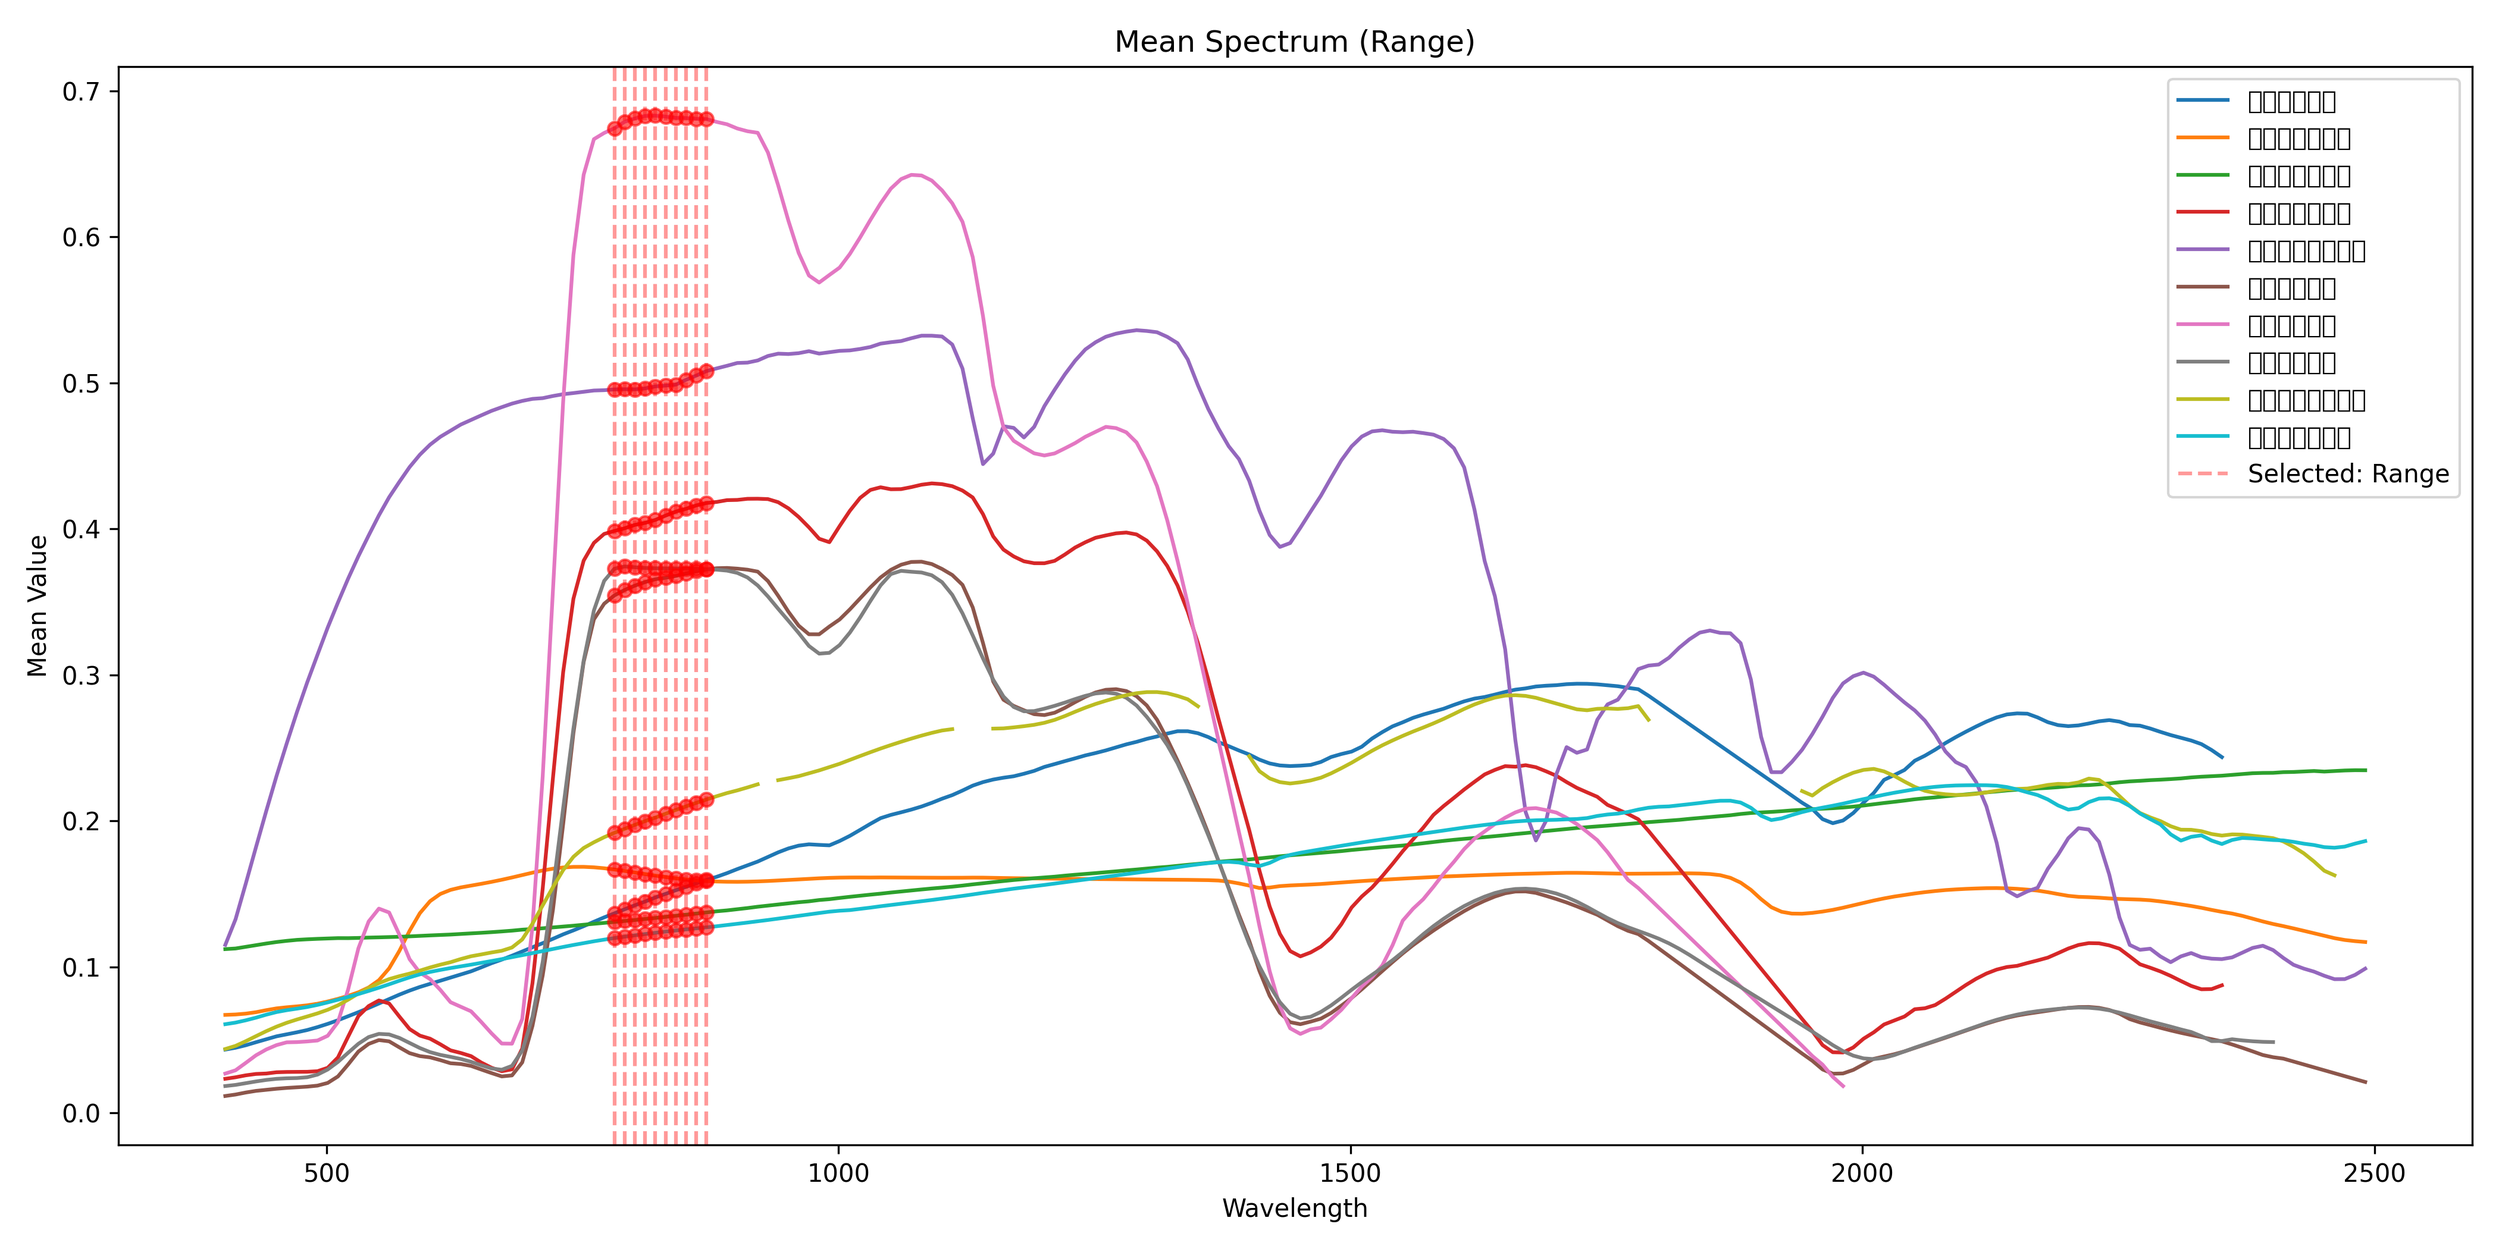
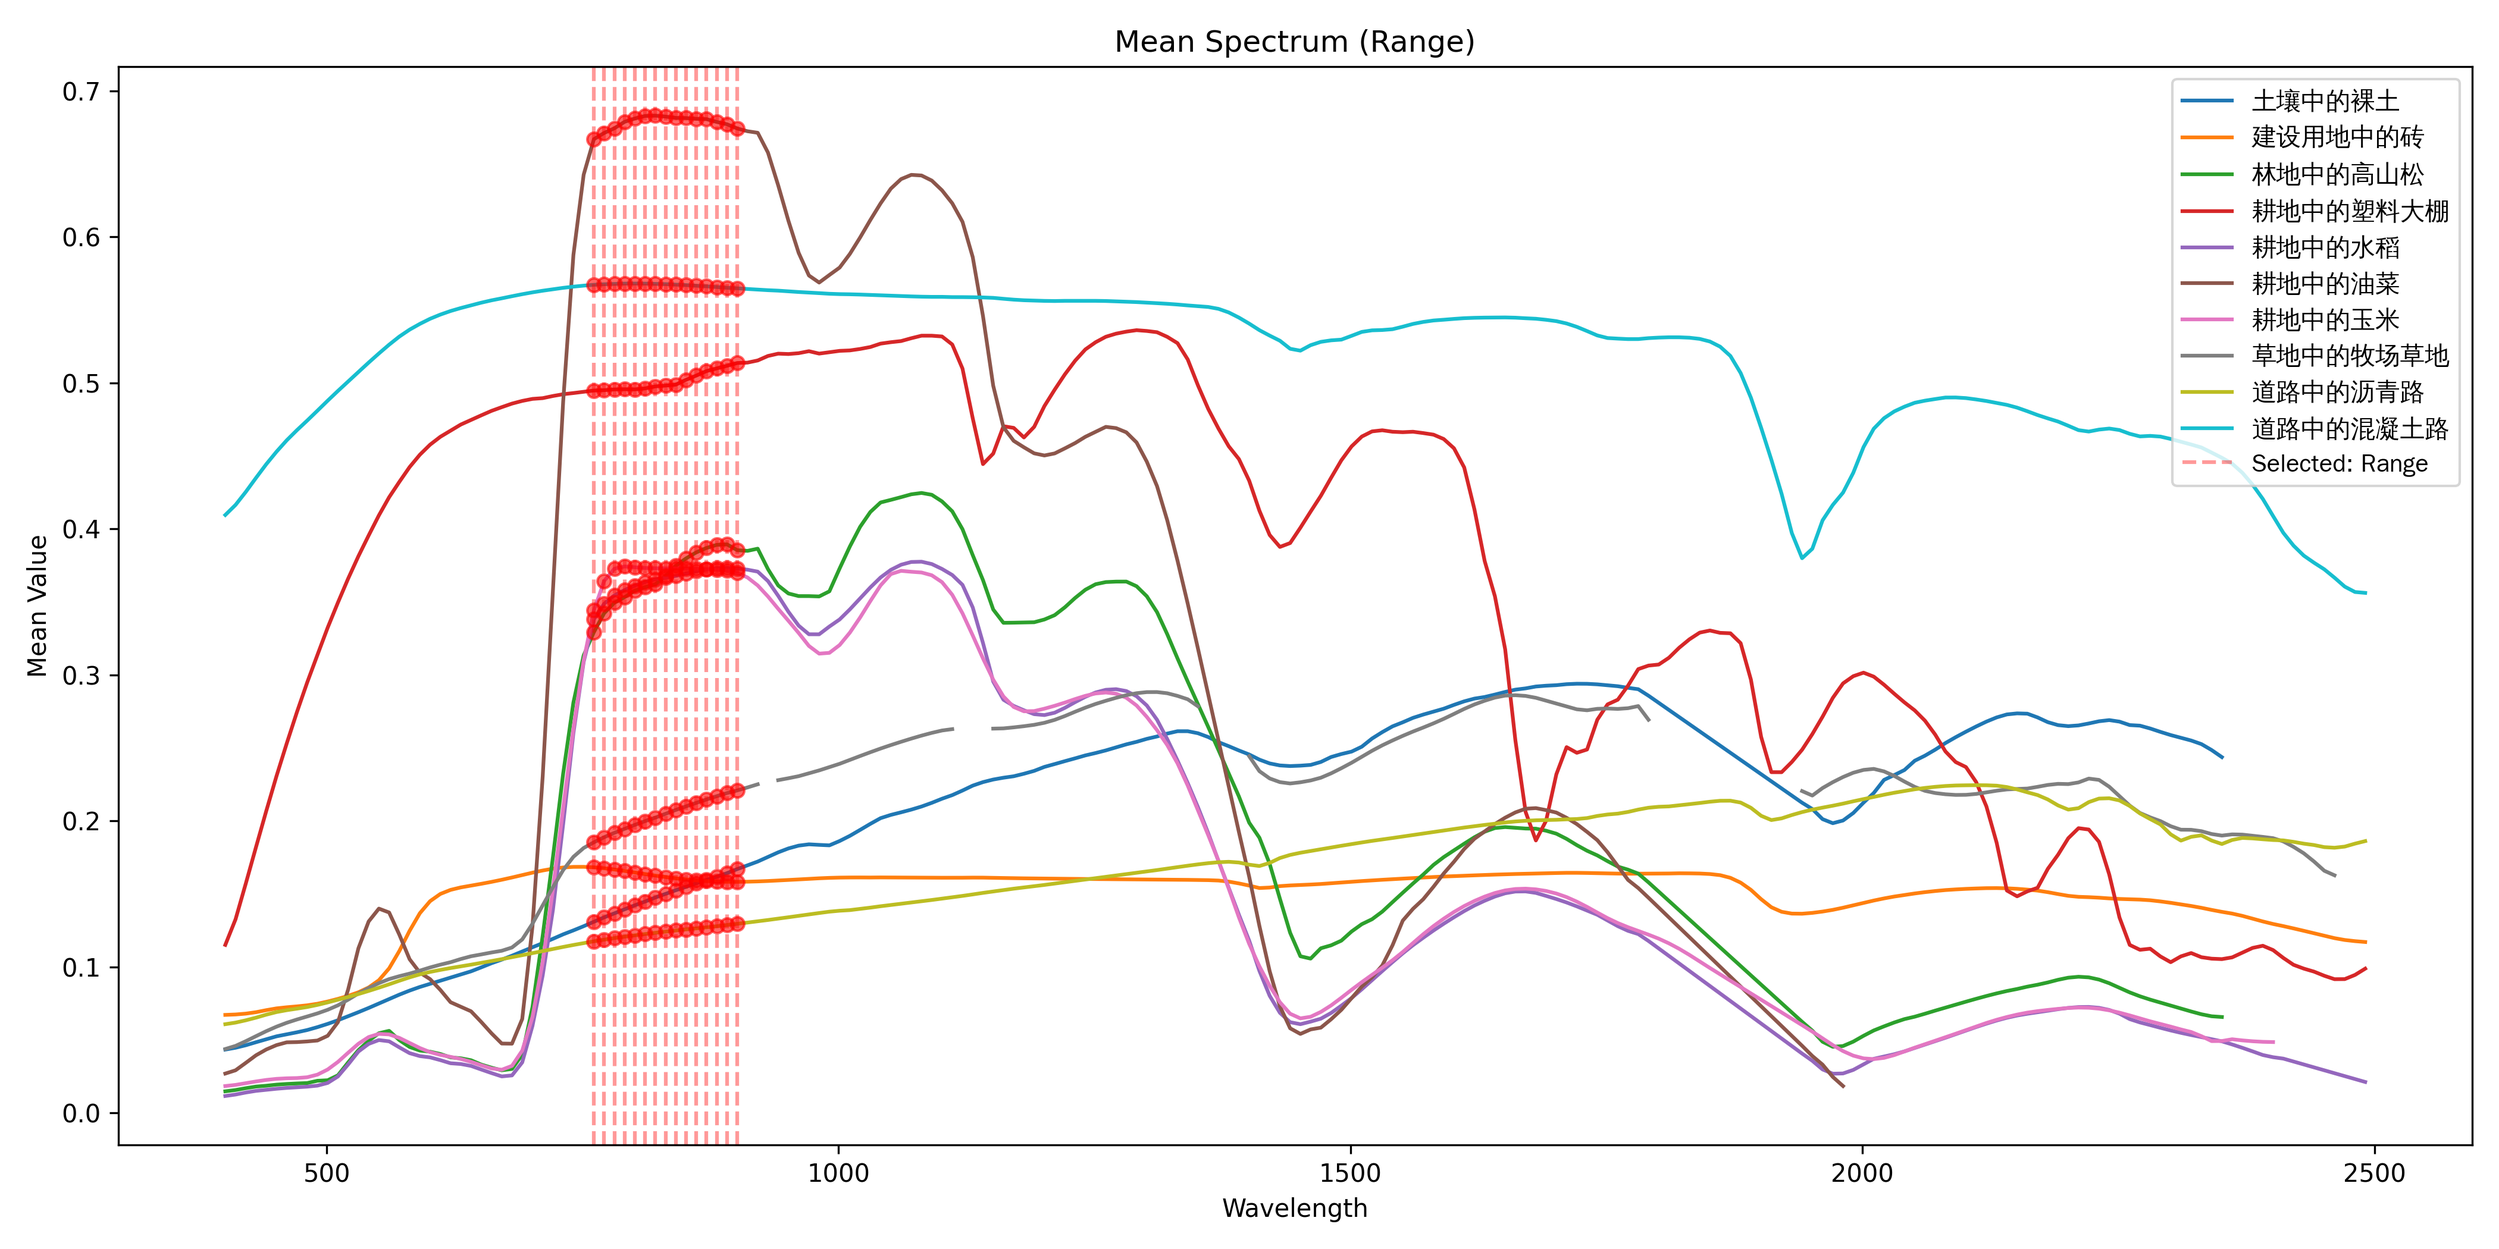
spectral lib based band selection update

diff --git a/Jobs/SpectraLib_band_selection/selector/combined_select.py b/Jobs/SpectraLib_band_selection/selector/combined_select.py
@@ -1,6 +1,6 @@
 import numpy as np
 from scipy.spatial.distance import pdist
-import itertools
+
 
 def group_discriminability(X, y):
     """给定样本X（n, k），y，返回组间中心均值距离/组内方差之比"""
@@ -28,39 +28,155 @@ def group_discriminability(X, y):
     intra_var_mean = (intra_var / count) if count > 0 else 1e-8  # 防0
     return inter_dist / (intra_var_mean**0.5 + 1e-8)
 
-def greedy_band_combination(X, y, band_pool=None, n_select=7):
+
+def greedy_band_selection(
+        X, y,
+        band_pool=None,
+        n_select=7,
+        n_trials=30,
+        disturb_prob=0.3, # 每轮有概率随机替换掉一个已选band
+        random_state=None
+    ):
     """
-    贪心递进法：每次增加1个band，组合区分力最大化
-    X: (n, b) 原始数据
-    y: (n,) 标签
-    band_pool: 候选波段索引（如先用单band方法筛，建议>n_select即可）
-    n_select: 想选多少个波段组成组合
-    return: 最佳组合的band索引列表、最终组合区分力
+    改进：每轮贪心基础上，带入一定概率的随机扰动（扰动后再局部贪心探索），多轮重复，保留最佳
+    - n_trials: 总共运行多少轮
+    - disturb_prob: 每轮扰动的概率（扰动已选波段，防止陷入局部最优）
+    - random_state: 控制随机性
     """
+    rng = np.random.default_rng(random_state)
     if band_pool is None:
         band_pool = np.arange(X.shape[1])
-    else:
-        band_pool = np.array(band_pool)
-    
-    selected = []
-    for i in range(n_select):
-        best_band = None
-        best_score = -np.inf
-        for band in band_pool:
-            if band in selected:
-                continue
-            cand = selected + [band]
+    band_pool = np.array(band_pool)
+    best_combo = None
+    best_score = -np.inf
+
+    for trial in range(n_trials):
+        selected = []
+        local_band_pool = band_pool.copy()
+
+        for i in range(n_select):
+            # 有概率进行扰动：随便pick一个未被选的band
+            if rng.random() < disturb_prob and len(local_band_pool) > len(selected):
+                # 从未被选的band中随机pick一个
+                choices = [b for b in local_band_pool if b not in selected]
+                best_band = rng.choice(choices)
+                cand = selected + [best_band]
+            else:
+                # 常规贪心
+                best_band = None
+                best_band_score = -np.inf
+                for band in local_band_pool:
+                    if band in selected:
+                        continue
+                    cand = selected + [band]
+                    X_sub = X[:, cand]
+                    mask = ~np.any(np.isnan(X_sub), axis=1)
+                    if np.sum(mask) < 2 or len(np.unique(y[mask])) < 2:
+                        continue
+                    score = group_discriminability(X_sub[mask], y[mask])
+                    if score > best_band_score:
+                        best_band_score = score
+                        best_band = band
+                if best_band is None:
+                    break
+                cand = selected + [best_band]
+
             X_sub = X[:, cand]
-            # 剔除有nan的样本，保证组合特征不nan
             mask = ~np.any(np.isnan(X_sub), axis=1)
             if np.sum(mask) < 2 or len(np.unique(y[mask])) < 2:
                 continue
-            score = group_discriminability(X_sub[mask], y[mask])
-            if score > best_score:
-                best_score = score
-                best_band = band
-        if best_band is not None:
             selected.append(best_band)
-        else:
-            break  # 没法再加了
-    return selected, best_score
+
+        # 组合完成后，评估
+        if len(selected) < n_select: continue
+        X_sub = X[:, selected]
+        mask = ~np.any(np.isnan(X_sub), axis=1)
+        score = group_discriminability(X_sub[mask], y[mask])
+        if score > best_score:
+            best_score = score
+            best_combo = selected.copy()
+    return best_combo, best_score
+
+
+def sffs_band_selection(
+        X, y,
+        band_pool=None,
+        n_select=7,
+        score_func=None,
+        n_trials=20,
+        disturb_prob=0.2,
+        random_state=None
+    ):
+    """
+    随机浮动 SFFS：每次迭代有概率踢掉/增添一个随机band，在普通sffs基础上增加扰动和多轮尝试
+    """
+    rng = np.random.default_rng(random_state)
+    if score_func is None:
+        score_func = group_discriminability
+    if band_pool is None:
+        band_pool = np.arange(X.shape[1])
+    band_pool = np.array(band_pool)
+
+    best_score = -np.inf
+    best_combo = None
+    for trial in range(n_trials):
+        selected = []
+        local_band_pool = band_pool.copy()
+
+        while len(selected) < n_select:
+            # 有概率扰动：加一个随机band
+            do_disturb = (rng.random() < disturb_prob and len(selected) > 0)
+            if do_disturb:
+                choices = [b for b in local_band_pool if b not in selected]
+                if not choices:
+                    break
+                band = rng.choice(choices)
+                selected.append(band)
+                selected = list(set(selected))[:n_select]
+            else:
+                # 标准SFFS向前
+                best_add, best_add_score = None, -np.inf
+                for band in local_band_pool:
+                    if band in selected:
+                        continue
+                    cand = selected + [band]
+                    X_sub = X[:, cand]
+                    mask = ~np.any(np.isnan(X_sub), axis=1)
+                    if np.sum(mask) < 2 or len(np.unique(y[mask])) < 2:
+                        continue
+                    score = score_func(X_sub[mask], y[mask])
+                    if score > best_add_score:
+                        best_add_score = score
+                        best_add = band
+                if best_add is not None:
+                    selected.append(best_add)
+                else:
+                    break
+
+            # 浮动后退，照常
+            float_flag = True
+            while float_flag and len(selected) > 1:
+                best_remove, best_remove_score = None, -np.inf
+                for b in selected:
+                    cand = [x for x in selected if x != b]
+                    X_sub = X[:, cand]
+                    mask = ~np.any(np.isnan(X_sub), axis=1)
+                    if np.sum(mask) < 2 or len(np.unique(y[mask])) < 2:
+                        continue
+                    score = score_func(X_sub[mask], y[mask])
+                    if score > best_remove_score:
+                        best_remove = b
+                        best_remove_score = score
+                if best_remove_score > score_func(X[:, selected], y):
+                    selected.remove(best_remove)
+                else:
+                    float_flag = False
+
+        if len(selected) < n_select: continue
+        X_sub = X[:, selected]
+        mask = ~np.any(np.isnan(X_sub), axis=1)
+        score = score_func(X_sub[mask], y[mask])
+        if score > best_score:
+            best_score = score
+            best_combo = selected.copy()
+    return best_combo, best_score

diff --git a/Jobs/SpectraLib_band_selection/main.py b/Jobs/SpectraLib_band_selection/main.py
@@ -4,6 +4,8 @@ sys.path.append('/home/nw/Codes/Jobs/SpectraLib_band_selection')
 import os
 import pandas as pd
 import numpy as np
+from scipy.spatial.distance import cdist
+
 from config import cfg
 from utils import pretty_print_clip_match, plot_selected_bands
 from dataset_loader import load_spectral_library
@@ -12,7 +14,11 @@ from selector.single_band_select import (
     range_band_select, 
     report_result_simple, 
 )
-from selector.combined_select import greedy_band_combination
+from selector.combined_select import (
+    greedy_band_selection,
+    sffs_band_selection,
+    group_discriminability
+)
 from semantic_matcher.Ensemble_semantic_matcher import (
     EVACLIPSemanticMatcher, 
     Text2VecSemanticMatcher, 
@@ -93,10 +99,16 @@ def combo_band_selection(X_mean_np, y_mean, selected_bands, COMBO_NUM=7):
     var_band_idxs, _ = selected_bands['Variance']
     range_band_idxs, _ = selected_bands['Range']
     band_pool = np.unique(np.concatenate([var_band_idxs, range_band_idxs]))
-    best_combo, best_score = greedy_band_combination(
-        X_mean_np, y_mean, band_pool=band_pool, n_select=COMBO_NUM
+    best_combo, best_score = greedy_band_selection(
+        X_mean_np, y_mean, band_pool=band_pool, n_select=COMBO_NUM, n_trials=100
     )
     selected_bands[f"GreedyCombo_{COMBO_NUM}"] = (np.array(best_combo), [best_score] * len(best_combo))
+
+    best_combo_sffs, best_score_sffs = sffs_band_selection(
+        X_mean_np, y_mean, band_pool=band_pool, n_select=COMBO_NUM, n_trials=100
+    )
+    selected_bands[f"SffsCombo_{COMBO_NUM}"] = (np.array(best_combo_sffs), [best_score_sffs] * len(best_combo_sffs))
+
     return selected_bands
 
 def save_and_plot_all(selected_bands, X_mean_np, y_mean, meta):
@@ -124,23 +136,71 @@ def save_and_plot_all(selected_bands, X_mean_np, y_mean, meta):
     report_df.to_csv(result_path, index=False)
     print(f"\n全部方法结果已保存至：{result_path}")
 
+
+def evaluate_band_discriminability(X_mean, y_mean, band_idxs, score_func=None):
+    """
+    用类别均值样本在选定波段下评估类别区分能力
+    X_mean: shape=(类别数, 波段数), 每行一个类别均值
+    y_mean: 类别名
+    band_idxs: 波段索引，用于挑选特定波段分析判别力
+    score_func: 可传入自定义的分组判别力函数
+    返回:
+        - 类别间距离矩阵
+        - （可选）group_discriminability得分
+    """
+    X_sel = X_mean[:, band_idxs]
+    # 1. 欧氏距离矩阵
+    dist_matrix = cdist(X_sel, X_sel)
+    # 2. 可选的分组判别力
+    if score_func is not None:
+        discri_score = score_func(X_sel, y_mean)
+    else:
+        discri_score = None
+    return dist_matrix, discri_score
+
+
 def main():
     """
     主控流程。逐步串联数据加载、语义匹配、分组统计、波段选择与组合、可视化与导出
     """
     # 1. 加载原始库和标签
     X, labels, label_set, meta = prepare_data()
+   
     # 2. 语义智能匹配目标类别
     resolved_label_set = semantic_label_matching(label_set)
+    
     # 3. 每类谱均值准备
     X_mean_np, y_mean = calc_group_mean(X, labels, resolved_label_set)
+    
     # 4. 单波段选取（方差法/极差法）
-    TOPK = 20       # 每种方法预选波段个数
-    COMBO_NUM = 7   # 组合法最后输出波段个数
+    TOPK = 15       # 每种方法预选波段个数
+    COMBO_NUM = 5   # 组合法最后输出波段个数
     selected_bands = single_band_selection(X_mean_np, TOPK)
+   
     # 5. 自动组合波段优选
     selected_bands = combo_band_selection(X_mean_np, y_mean, selected_bands, COMBO_NUM)
-    # 6. 输出报表和图
+    
+    # 6. 新增：验证greedy/sffs等组合的分类性能
+    for method in selected_bands:
+        band_idxs, score_list = selected_bands[method]
+        if isinstance(score_list, (list, np.ndarray)) and len(score_list) == 1:
+            best_score = score_list[0]
+        elif isinstance(score_list, (list, np.ndarray)):
+            best_score = score_list[-1]  # 若track了每一步得分，取最后一步
+        else:
+            best_score = score_list
+
+        print(f"\n方法[{method}] 组合的最终判别力分数（best_score）: {best_score:.4f}")
+
+        # 可选辅助：类别均值间的距离矩阵，仅供分析
+        X_sel = X_mean_np[:, band_idxs]
+        print(f"方法[{method}]得到的类别特征矩阵:\n{X_sel}")
+
+        from scipy.spatial.distance import cdist
+        dist_matrix = cdist(X_sel, X_sel)
+        print(f"方法[{method}]类别均值间距离矩阵:\n{np.round(dist_matrix,3)}")
+
+    # 7. 输出报表和图
     save_and_plot_all(selected_bands, X_mean_np, y_mean, meta)
 
 if __name__ == "__main__":

diff --git a/Jobs/SpectraLib_band_selection/selector/single_band_select.py b/Jobs/SpectraLib_band_selection/selector/single_band_select.py
@@ -1,17 +1,24 @@
 import pandas as pd
 import numpy as np
 
+
 def variance_band_select(X, topk):
-    # 方差法，忽略NaN
     variances = np.nanvar(X, axis=0)
-    rank = np.argsort(variances)[::-1]
-    return rank[:topk], variances[rank[:topk]]
+    # 只考虑非nan的波段
+    valid = ~np.isnan(variances)
+    rank = np.argsort(variances[valid])[::-1]
+    valid_indices = np.nonzero(valid)[0]
+    top_indices = valid_indices[rank[:topk]]
+    return top_indices, variances[top_indices]
 
 def range_band_select(X, topk):
-    # 极差法，忽略NaN
     ranges = np.nanmax(X, axis=0) - np.nanmin(X, axis=0)
-    rank = np.argsort(ranges)[::-1]
-    return rank[:topk], ranges[rank[:topk]]
+    valid = ~np.isnan(ranges)
+    rank = np.argsort(ranges[valid])[::-1]
+    valid_indices = np.nonzero(valid)[0]
+    top_indices = valid_indices[rank[:topk]]
+    return top_indices, ranges[top_indices]
+
 
 def fisher_band_select(X, y, topk):
     # 单样本/类别情况，Fisher等价range，这里还是实现为可扩展多样本分组
@@ -52,6 +59,6 @@ def report_result_simple(selected_bands_dict, band_names=None):
             "Method": method,
             "BandIdx": band_idxs.tolist(),
             "BandNames": bands_disp,
-            "BandScores": band_scores.tolist(),
+            "BandScores": band_scores,
         })
     return pd.DataFrame(df_report)

diff --git a/Jobs/SpectraLib_band_selection/utils.py b/Jobs/SpectraLib_band_selection/utils.py
@@ -1,13 +1,11 @@
 import itertools
-import matplotlib.pyplot as plt
 import numpy as np
+from matplotlib.font_manager import FontProperties
+import matplotlib.pyplot as plt
 
+# 设置中文字体
+font = FontProperties(fname='/usr/share/fonts/truetype/wqy/wqy-zenhei.ttc')
 
-def get_combinations(n_bands, comb_dim):
-    """
-    生成所有波段组合
-    """
-    return list(itertools.combinations(range(n_bands), comb_dim))
 
 def get_label_indices(labels, target_list):
     """
@@ -64,7 +62,7 @@ def plot_selected_bands(
                         X_mean_np[:,idx], color='g', s=30, zorder=10,
                         marker="x", alpha=0.6)
 
-    plt.legend(loc="best", fontsize=10)
+    plt.legend(loc="best", fontsize=10, prop=font)
     plt.xlabel('Band' if band_names is None else 'Wavelength')
     plt.ylabel('Mean Value')
     plt.title(f'Mean Spectrum ({method_desc})')

diff --git a/Jobs/SpectraLib_band_selection/config.py b/Jobs/SpectraLib_band_selection/config.py
@@ -31,7 +31,7 @@ class Config:
         self.CLIP_THRESH = 0.75
 
         # 分类/目标
-        self.DEFAULT_TARGET_LIST = ["水稻", "草地", "菜地", '玉米', '建筑', '裸地', '建设用地', '道路', '自然植被', '草地', '高速公路', '塑料大棚']
+        self.DEFAULT_TARGET_LIST = ["水稻", "草地", "菜地", '玉米', '建筑', '裸地', '道路', '森林', '高速公路', '塑料大棚']
 
         # 设备与其他
         self.DEVICE = "cuda:1"
